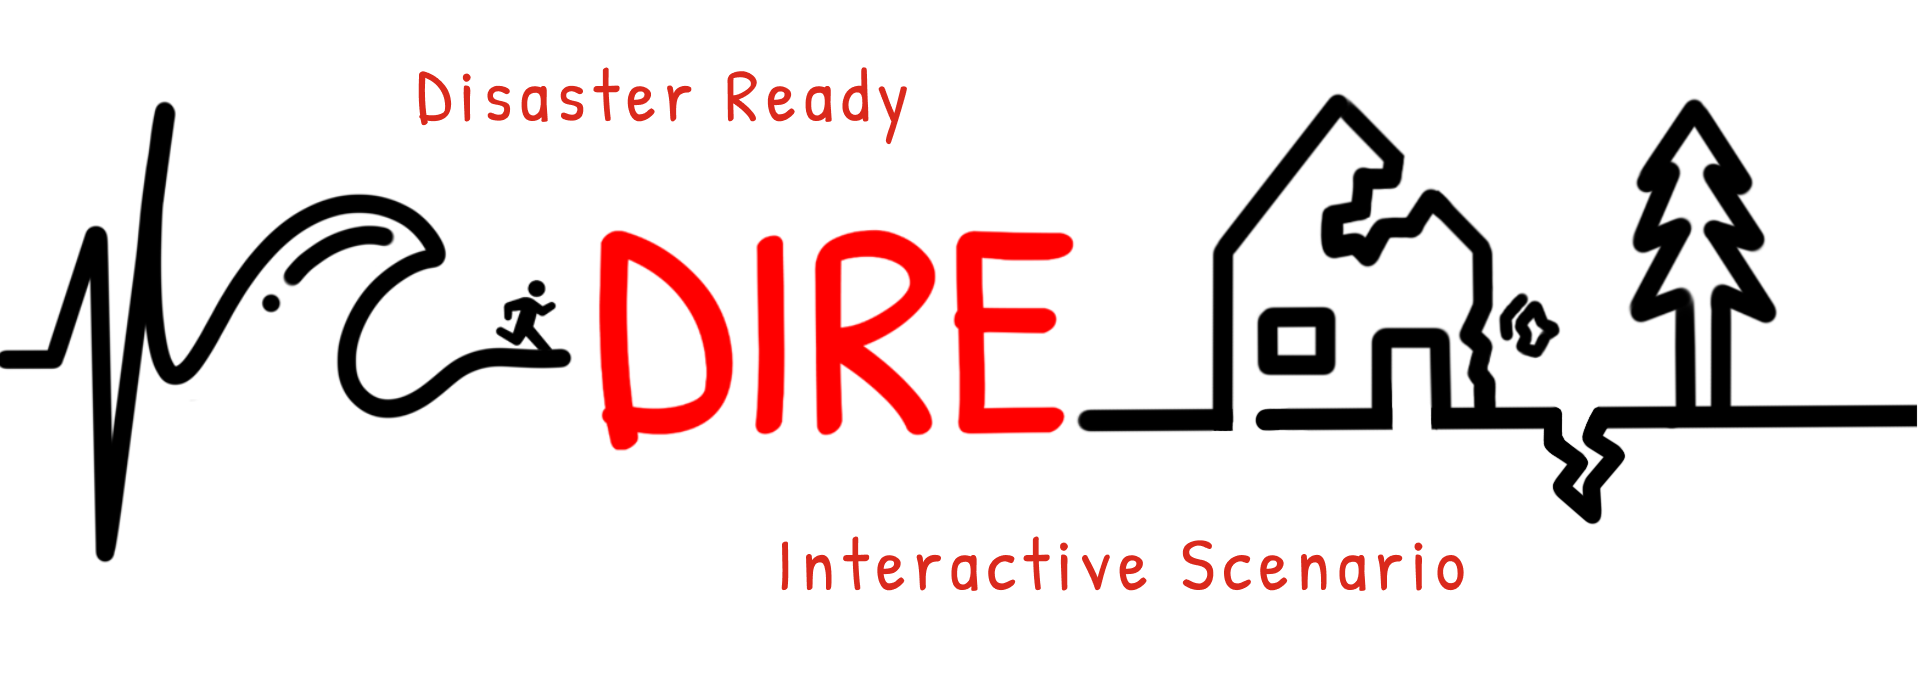
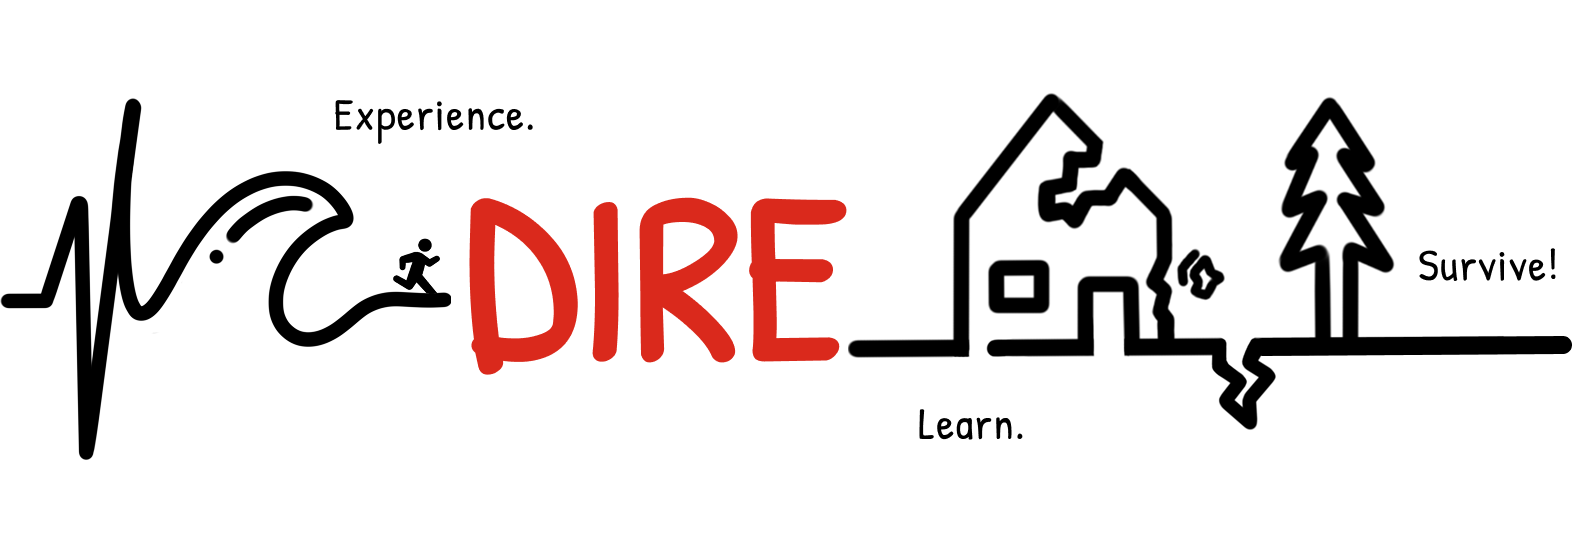
changing the homepage cover and layout; play page updated

diff --git a/dummy.html b/dummy.html
@@ -47,26 +47,26 @@
     <!-- Home Section -->
     <section id="home" class="w-full h-90 flex flex-col justify-center items-center text-center relative">
         
-        <!-- Cover Image -->
-        <div class="w-full absolute flex justify-center">
-            <img src="./assets/home-cover-3.png" alt="DIRE Cover">
+        <!-- Background Image -->
+        <div class="absolute w-auto h-auto lg:h-full lg:mt-10">
+            <img src="./assets/homepage-1.png" alt="Homepage Cover">
         </div>
         
+
         <!-- Description -->
-        <div class="w-full flex justify-center items-center">
-            <p class="text-md text-black mt-65 lg:mt-85 max-w-lg px-4">
+        <!-- <div class="w-full flex justify-center items-center relative">
+            <p class="text-md text-black mt-90 lg:mt-120 max-w-lg px-4">
                 DIRE is a platform that aims to enhance disaster preparedness among tourists in Bali with interactive scenarios that educate on earthquake and tsunami disaster risks, and safety measures available to increase the tourists’ chances of survival.
             </p>
-        </div>
+        </div> -->
         
         <!-- Blank Section -->
         <div class="h-70"></div>
     </section>
 
 
-
     <!-- Resources Section -->
-    <section id="resources" class="container mr-auto lg:mx-auto max-w-5xl px-8 pt-22 block">
+    <section id="resources" class="container mr-auto lg:mx-auto max-w-5xl px-8 lg:pt-80 block">
 
         <!-- Title -->
         <div class="lg:w-auto text-center lg:text-left">
@@ -123,7 +123,7 @@
                 </div>
                 
                 <!-- Footer -->
-                <p class="mt-4 font-italic text-black">Disasters don’t come with a warning—but preparedness saves lives. Act fast, stay alert, and always prioritize safety. <strong>Your survival starts now.</strong></p>
+                <p class="mt-4 font-italic text-black">Disasters don’t come with a warning—but preparedness saves lives. Act fast, stay alert, and always prioritize safety. <strong>Your survival starts now!</strong></p>
             </div>
 
             <!-- E-Book -->
@@ -151,7 +151,7 @@
         <!-- Description -->
         <div class="mt-6 lg:w-auto mx-auto text-justify">
             <p class="leading-relaxed text-sm sm:text-base lg:text-lg">
-                DIRE, which means presaging disaster, is an interactive web-based platform designed to empower tourists visiting Bali with the knowledge needed to respond effectively to earthquake and tsunami disasters. True to its name, the web app equips users to confidently navigate DIRE situations, turning potential disasters into well-managed responses. Through engaging and interactive scenarios, DIRE educates users on the risks associated with these natural disasters, while providing crucial safety measures that can increase the chances of survival during an event. Our goal is to bridge the gap between disaster preparedness education and travelers, offering a user-friendly and informative experience that ensures visitors understand the importance of being prepared when traveling to areas vulnerable to natural disasters. Our slogan, *Disaster? Ready!* reflects our commitment to equipping tourists with the confidence and knowledge needed to stay safe in the event of an earthquake or tsunami, turning uncertainty into preparedness.
+                DIRE, which means presaging disaster, is an interactive web-based platform designed to empower tourists visiting Bali with the knowledge needed to respond effectively to earthquake and tsunami disasters. True to its name, the web app equips users to confidently navigate DIRE situations, turning potential disasters into well-managed responses. Through engaging and interactive scenarios, DIRE educates users on the risks associated with these natural disasters, while providing crucial safety measures that can increase the chances of survival during an event. Our goal is to bridge the gap between disaster preparedness education and travelers, offering a user-friendly and informative experience that ensures visitors understand the importance of being prepared when traveling to areas vulnerable to natural disasters. Our slogan, Disaster? Ready! reflects our commitment to equipping tourists with the confidence and knowledge needed to stay safe in the event of an earthquake or tsunami, turning uncertainty into preparedness.
             </p>
             <p class="leading-relaxed mt-6 text-sm sm:text-base lg:text-lg">
                 To ensure that the content on DIRE is accurate and up-to-date, we have partnered with BPBD Bali (Bali Regional Disaster Management Agency) to source official materials and insights on earthquake and tsunami mitigation strategies. BPBD Bali's expertise in disaster risk management has been invaluable in creating realistic, region-specific scenarios that reflect the unique hazards and emergency protocols in Bali. Through this collaboration, we aim to provide tourists with authentic, actionable information that aligns with local disaster preparedness standards. BPBD Bali's contribution not only strengthens the educational impact of DIRE but also helps reinforce the importance of community resilience and effective disaster management in protecting both locals and visitors alike.

diff --git a/play.html b/play.html
@@ -25,19 +25,6 @@
             transition: opacity 2s ease-in-out;
         }
 
-        /* Play Cover */
-        #logo-screen {
-            position: absolute;
-            top: 0;
-            left: 0;
-            width: 100%;
-            height: 100%;
-            background-size: cover;
-            background-position: center;
-            opacity: 1;
-            transition: opacity 2s ease-in-out;
-        }
-
         /* Chapter 1 */
         #chapter-screen {
             position: absolute;
@@ -130,7 +117,6 @@
 
 <body>
     <!-- Logo and Chapter Screens (Initially Visible) -->
-    <div id="logo-screen" class="fade-image" style="background-image: url('./assets/play-cover-2.png');"></div>
     <div id="chapter-screen" class="fade-image" style="background-image: url('./assets/chapter-1.png');"></div>
 
     <!-- Navigation Bar (Fixed at the top) -->
@@ -169,7 +155,6 @@
             const stickman = document.getElementById("stickman");
             const leftBtn = document.getElementById("leftBtn");
             const rightBtn = document.getElementById("rightBtn");
-            const logoScreen = document.getElementById("logo-screen");
             const chapterScreen = document.getElementById("chapter-screen");
             const controls = document.getElementById("controls");
             const continueBtn = document.getElementById("continue-btn");
@@ -241,30 +226,25 @@
 
             // Fade Transition Logic for the Screens
             setTimeout(() => {
-                // Fade out the logo screen after 2 seconds
-                logoScreen.style.opacity = '0';
+                // Fade in the chapter screen after 2 seconds (total 2 seconds)
+                chapterScreen.style.opacity = '1';
             }, 2000);
 
             setTimeout(() => {
-                // Fade in the chapter screen after 2 seconds (total 4 seconds)
-                chapterScreen.style.opacity = '1';
+                // Fade out the chapter screen after 2 more seconds (total 4 seconds)
+                chapterScreen.style.opacity = '0';
             }, 4000);
 
             setTimeout(() => {
-                // Fade out the chapter screen after 2 more seconds (total 6 seconds)
-                chapterScreen.style.opacity = '0';
-            }, 6000);
-
-            setTimeout(() => {
-                // Finally, fade in the game screen after 2 more seconds (total 8 seconds)
+                // Finally, fade in the game screen after 2 more seconds (total 6 seconds)
                 gameContainer.style.opacity = '1';
-            }, 8000);
+            }, 6000);
 
             // Fade in the control buttons (left and right arrows) after the game screen appears
             setTimeout(() => {
                 controls.style.opacity = '1';
                 controls.style.visibility = 'visible'; // Make sure the buttons are visible
-            }, 8000); // The control buttons will fade in after 8 seconds (same time as the game scene)
+            }, 6000); // The control buttons will fade in after 6 seconds (same time as the game scene)
         });
     </script>
 </body>
